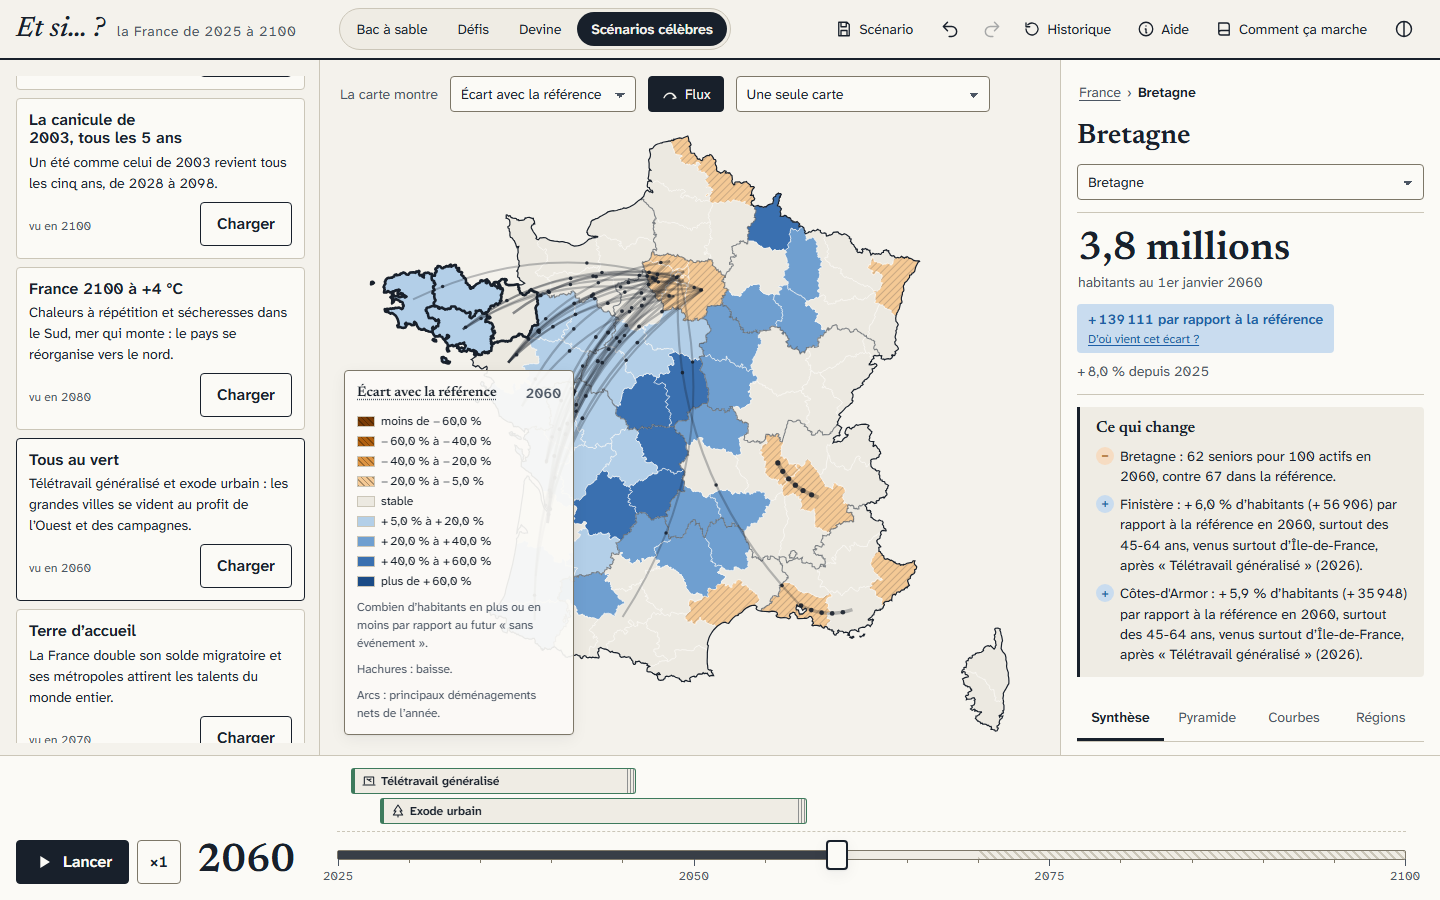
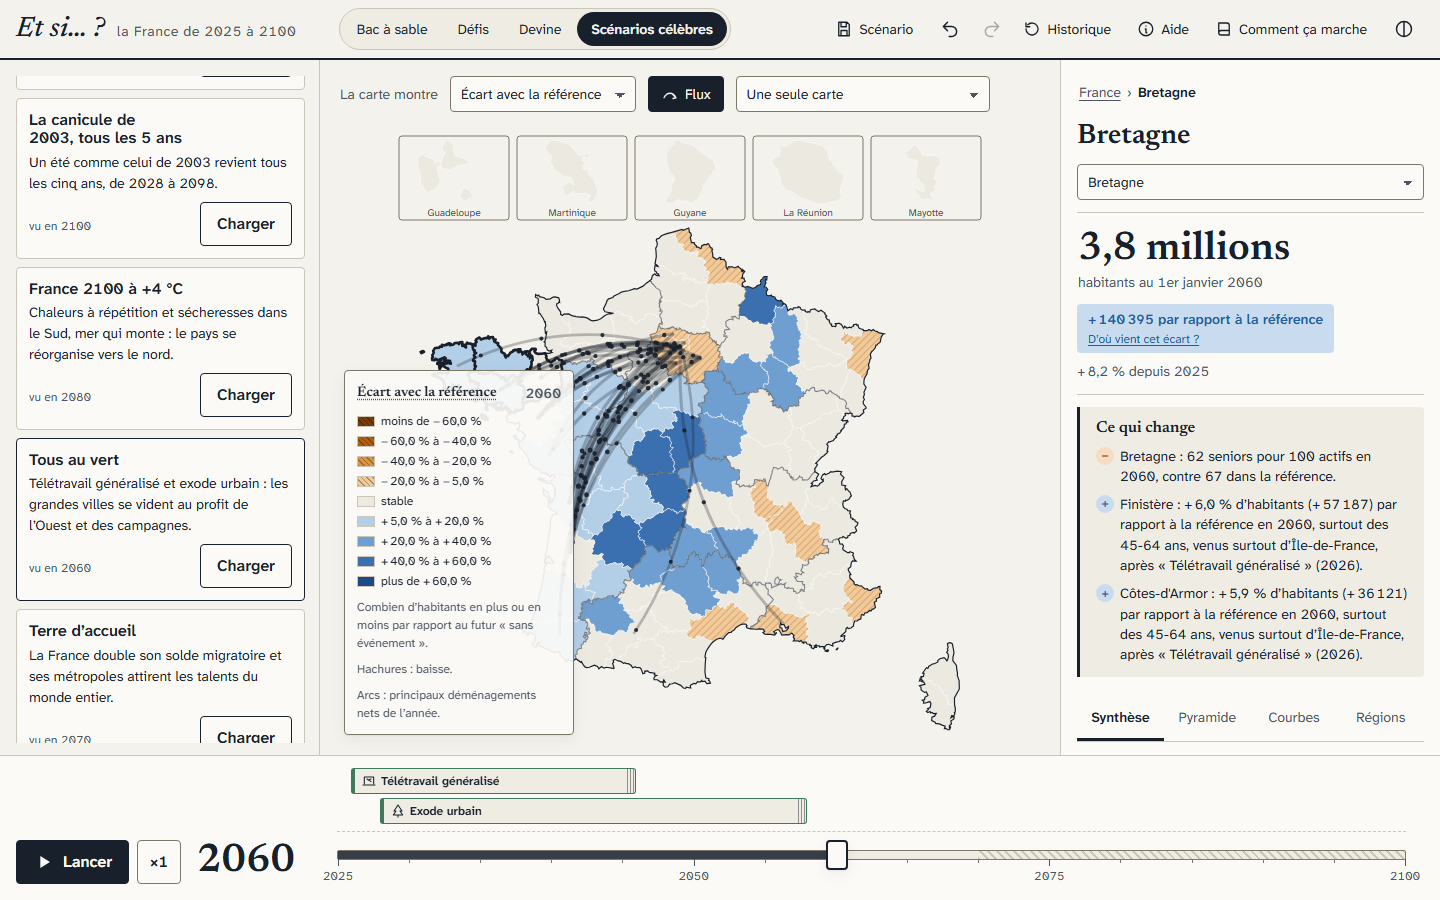
docs: améliorations (outre-mer, niveaux de preuve, réactivité, téléphone, CI rejouée)

diff --git a/src/events/library.ts b/src/events/library.ts
@@ -6,8 +6,8 @@ import { CAPITALES_REGIONALES, DIAGONALE, FRANCE, IDF, INDUSTRIEL, LITTORAL, MET
  *
  * Les effets sont donnés pour une intensité de 1 (« forte ») ; l'intensité choisie par le joueur
  * les met à l'échelle (0,5 = moitié de l'écart). Les âges sont les âges au 1er janvier.
- * Toutes les valeurs sont des hypothèses de jeu (`estimated: true`) : quand un ordre de grandeur
- * historique existe, il est cité dans `source`.
+ * Niveau de preuve (`evidence`) : « insee » pour les variantes officielles, « historique » pour les
+ * effets calés sur un épisode réel (cité dans `source`), sinon hypothèse de jeu.
  */
 
 /**

diff --git a/src/ui/scenario/ScenarioDialog.tsx b/src/ui/scenario/ScenarioDialog.tsx
@@ -80,7 +80,7 @@ export function ScenarioDialog({ open, onClose }: { open: boolean; onClose: () =
         colors: mapLegend.colors,
         labels: mapLegend.labels,
         hatchedClasses: mapLegend.hatched,
-        source: 'Simulation « Et si… ? » à partir des données Insee (Licence Ouverte). Effets des événements : hypothèses de jeu.',
+        source: 'Simulation « Et si… ? » à partir des données Insee (Licence Ouverte). Effets des événements : variantes Insee, épisodes historiques ou hypothèses de jeu (voir chaque fiche).',
       })
       download(`et-si-${slug(scenario.name)}-${year}.png`, blob)
     } catch (e) {

diff --git a/src/engine/validation.ts b/src/engine/validation.ts
@@ -10,7 +10,7 @@ export interface ValidationReport {
   maxSeniorGapPts: number
   /** Projection à 1 an comparée à l'estimation Insee au 1/1/2026, par département. */
   oneYear: { meanAbsPct: number; maxAbsPct: number; worst: string }
-  /** Parts des départements dans la population métropolitaine, comparées à Omphale 2022. */
+  /** Parts des départements dans la population de la France entière, comparées à Omphale 2022. */
   omphale: { year: number; meanAbsPct: number; maxAbsPct: number; worst: string }[]
 }
 

diff --git a/src/engine/types.ts b/src/engine/types.ts
@@ -65,7 +65,7 @@ export interface InternalMigrationJson {
 
 export interface ExternalMigrationJson {
   years: number[]
-  level: number[] // solde annuel métropole (personnes)
+  level: number[] // solde annuel France entière (personnes)
   profile: number[][][] // [annee][sexe][âge] somme = 1
   depWeight: number[]
   apparentNet: number[]

diff --git a/DECISIONS.md b/DECISIONS.md
@@ -2,7 +2,7 @@
 
 Journal des hypothèses du modèle, des choix techniques et des limites connues. Chaque valeur qui n'est pas lue telle quelle dans une source est qualifiée d'**estimée**, ici comme dans l'interface.
 
-Dernière mise à jour : jalon 6 (4 octobre 2026).
+Dernière mise à jour : améliorations après le jalon 6 (4 octobre 2026).
 
 ---
 
@@ -313,9 +313,52 @@ L'élément à utiliser est mis en évidence, avec « Retour » et « Passer » 
 
 La cible de « moins de 100 ms perçues » est **approchée mais pas toujours tenue** : le calcul complet reste de l'ordre de 70 à 120 ms. Les transitions de la carte (180 ms) lissent la mise à jour.
 
-### Limites restantes
 
-- L'historique détaillé (liste des actions) n'est proposé qu'au-dessus de 600 px ; sur téléphone, le menu offre annuler et rétablir.
-- Le glisser-déposer des cartes de la bibliothèque est pensé pour la souris et le stylet ; au doigt, on utilise « Placer », plus fiable sur petit écran.
-- Les départements et régions d'outre-mer ne sont pas simulés (jalon optionnel).
-- La CI GitHub Actions est fournie (`.github/workflows/ci.yml`) mais n'a pas pu être exécutée : le dépôt n'a pas de dépôt distant.
+## 13. Améliorations après le jalon 6
+
+### Outre-mer (périmètre : France entière)
+
+Les 5 départements et régions d'outre-mer sont simulés : 101 départements, 18 régions.
+- **Données :** estimations Insee, naissances, décès et espérance de vie, migrations du recensement 2022, Omphale.
+- **Migrations :** les déménagements entre la métropole et les DROM sont internes. Mayotte n'est pas dans le fichier national des migrations comme lieu de résidence ; ses échanges internes sont exclus (sinon son taux de départ vaudrait 100 %), et son solde passe par le solde apparent.
+- **Validation à périmètre identique** avec les projections Insee 2026 :
+  - écart maximal sur l'évolution de la population : **0,32 point**, au lieu de 1,06 quand seule la métropole était simulée ;
+  - part des 65 ans et plus : **0,14 point** au plus ;
+  - projection à un an : 0,13 % d'écart moyen par département (au plus 0,51 %, en Martinique).
+- **Carte :** médaillons en rangée en haut, chacun avec sa projection. Les contours IGN sont simplifiés à la construction (topojson-simplify, 4 % des sommets, 56 Ko).
+- **Écarts à Omphale 2022 :** ils sont plus forts pour la Guyane et la Guadeloupe (jusqu'à 38 % sur la part de population en 2070). Omphale part de 2018 et suppose une fécondité de 1,8.
+
+### Niveau de preuve des événements
+
+| Niveau | Événements | Vérification |
+|---|---|---|
+| **Variante Insee** | Fécondité haute (1,70) et basse (1,20), espérance de vie haute et basse, migrations hautes (+230 000) et basses (+70 000), solde nul | Écart du moteur au scénario central comparé à celui de l'Insee, de 2030 à 2070 : à moins de 10 % (ex. fécondité haute en 2070 : +5,08 M contre +4,95 M) |
+| **Calé sur l'histoire** | Pandémie (intensité forte = 2020), canicule (intensité forte = 2003) | +9,4 % de décès (2020 : +9 %) ; +2,8 % (2003 : +2,7 %) |
+| **Hypothèse de jeu** | Les autres | Aucune : affiché comme tel sur chaque carte et chaque fiche |
+
+Les variantes migratoires de l'Insee divergent du scénario central dès 2023 : on compare l'écart **accumulé depuis 2025**, année de départ du moteur. Les multiplicateurs de fécondité et de migration sont les rapports nominaux des hypothèses (1,70 / 1,45…). Ceux d'espérance de vie sont ajustés par simulation (×0,76 en 30 ans ; ×1,365 d'ici 2070).
+
+### Réactivité
+
+| Mesure (build de production, Chrome, Ryzen 7 3700X) | Avant | Après |
+|---|---|---|
+| Simulation complète | ≈ 78 ms | ≈ 61 ms (médiane dans le Worker) |
+| Réglage → chiffres affichés, médiane | 86-122 ms | **80 ms** |
+| Part des réglages affichés en moins de 100 ms | — | **92 %** (90e centile : 98 ms) |
+
+Les leviers :
+1. **Déménagements ciblés** cumulés puis répartis une seule fois ; une division remplacée par une multiplication.
+2. **Reprise exacte à l'année du premier événement** : les états de la référence sont gardés en double précision dans le Worker. Le résultat est identique au bit près (testé) ; un événement en 2070 se calcule en 29 ms au lieu de 65.
+3. **Recyclage des tableaux de résultats** (~9 Mo) entre la page et le Worker.
+4. **Échauffement du Worker** avec un scénario qui exerce tous les types d'effets. Sans lui, la première simulation après l'apparition d'un nouveau type d'effet coûtait ~150 ms (désoptimisation du code par le moteur JavaScript).
+
+Il reste de rares pointes (au plus ~150 ms).
+
+### Téléphone
+
+- L'historique détaillé des actions est dans le menu des outils.
+- Les cartes d'événements ont une **poignée tactile** (`touch-action: none`) : on les glisse au doigt sur un département ou sur la frise, et le reste de la carte fait défiler la liste. C'est testé par de vrais événements tactiles (CDP `Input.dispatchTouchEvent`).
+
+### CI
+
+Le workflow `.github/workflows/ci.yml` a été rejoué à l'identique dans un clone vierge du dépôt : `npm ci`, typecheck, lint, 56 tests Vitest, build, 61 parcours Playwright avec `CI=1`. Tout passe.

diff --git a/README.md b/README.md
@@ -35,9 +35,9 @@ python -m venv .venv-data
 
 ## Ce qu'on peut faire
 
-- **Carte de France** par département, avec 6 couches (écart à la référence, évolution, âge médian, seniors pour 100 actifs, arrivées moins départs, densité) et les déménagements animés.
+- **Carte de France** des 101 départements, outre-mer en médaillons, avec 6 couches (écart à la référence, évolution, âge médian, seniors pour 100 actifs, arrivées moins départs, densité) et les déménagements animés.
 - **Frise 2025-2100** : lecture, pause, vitesse ; les événements y sont des blocs qu'on déplace et qu'on allonge.
-- **25 événements** et un éditeur pour créer les siens, avec des **cascades** visibles (canicules → crise agricole → migration vers le nord → logement).
+- **32 événements** et un éditeur pour créer les siens, avec des **cascades** visibles (canicules → crise agricole → migration vers le nord → logement). Chacun affiche son **niveau de preuve** : 7 reproduisent des variantes officielles de l'Insee, 2 sont calés sur l'histoire (2020, 2003), les autres sont des hypothèses de jeu.
 - **Analyse** :
   - récit automatique ;
   - « D'où vient cet écart ? » : naissances, décès, migrations et part de chaque événement ;
@@ -75,7 +75,7 @@ Chaque année, pour chaque département, chaque sexe et chaque âge :
 3. des habitants déménagent vers d'autres départements, comme on l'observe au recensement ;
 4. des personnes arrivent de l'étranger ou partent.
 
-C'est la **méthode des composantes**, celle des démographes. Sans événement, le moteur suit les projections 2026 de l'Insee, et les écarts sont mesurés et testés. Les effets des événements sont des **hypothèses de jeu**, signalées comme telles. Tout est détaillé dans la page « Comment ça marche » de l'application, dans [DECISIONS.md](DECISIONS.md) (hypothèses, choix, limites) et dans [DATA_SOURCES.md](DATA_SOURCES.md) (sources et dates).
+C'est la **méthode des composantes**, celle des démographes. Sans événement, le moteur suit les projections 2026 de l'Insee, et les écarts sont mesurés et testés. Les événements « Variante Insee » reproduisent les variantes officielles des projections (écart vérifié par des tests) ; les autres effets sont signalés comme calés sur l'histoire ou comme hypothèses de jeu. Tout est détaillé dans la page « Comment ça marche » de l'application, dans [DECISIONS.md](DECISIONS.md) (hypothèses, choix, limites) et dans [DATA_SOURCES.md](DATA_SOURCES.md) (sources et dates).
 
 ## Structure
 
